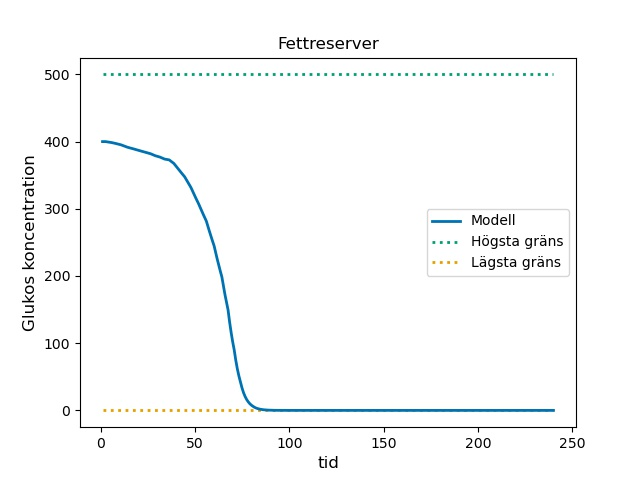
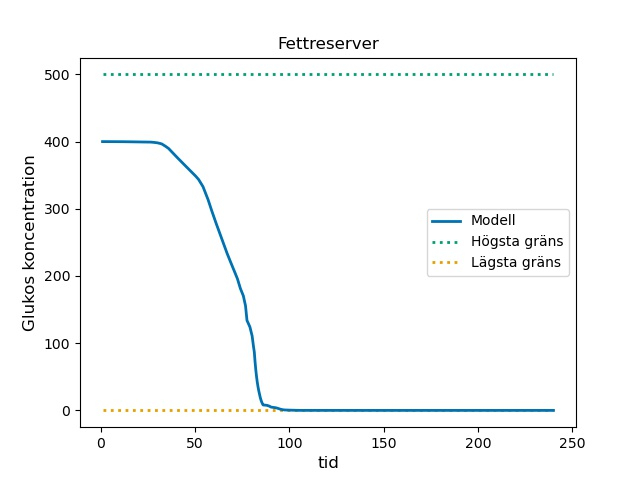
testing model

Changed region(s): [[0.1562, 0.2812, 0.4688, 0.875]]

diff --git a/optimering/week16_open_loop_optimering.py b/optimering/week16_open_loop_optimering.py
@@ -215,8 +215,9 @@ for n in range(samples):
     k1 = start[0,n] * para_int[2]
     k2 = start[1,n] * para_int[1]
     k3 = start[2,n] * para_int[1]
-    k4 = start[3,n] * para_int[1]
+    k4 = start[3,n] * para_int[2]
     k5 = start[4,n] * para_int[1]
+    k6 = start[5,n] * para_int[1]
     k7 = start[6,n] * para_int[3]
     k8 = start[7,n] * para_int[1]
 
@@ -268,7 +269,7 @@ F_model = sol_qual.y[6]
 # M_model = sol_qual[3]
 # H_model = sol_qual[4]
 # E_model = sol_qual[5]
-'
+
 
 
 # Print some statistics  
@@ -348,7 +349,6 @@ yH2_coordinates = [200,200]
 yE1_coordinates = [0,0]    
 yE2_coordinates = [200,200]  
 
-<<<<<<< HEAD
  # Constrains Fettreserver (F)
 yF1_coordinates = [0,0]    
 yF2_coordinates = [500,500] 
@@ -510,8 +510,6 @@ path_result_dir = "optimering/Bilder/plot_week16_open_loop_model"
 if not os.path.isdir(path_result_dir):
     os.mkdir(path_result_dir)  # Create a new directory if not existing
 path_fig = path_result_dir + "/plot_Fettreserver.jpg"
-=======
 path_fig = path_result_dir + "/plot_glucagon_plasma.jpg"
->>>>>>> 4d3048a6953eebdb7fae921bd3e1daeaacc06463
 print("path_fig = {}".format(path_fig))
 plt.savefig(path_fig)
